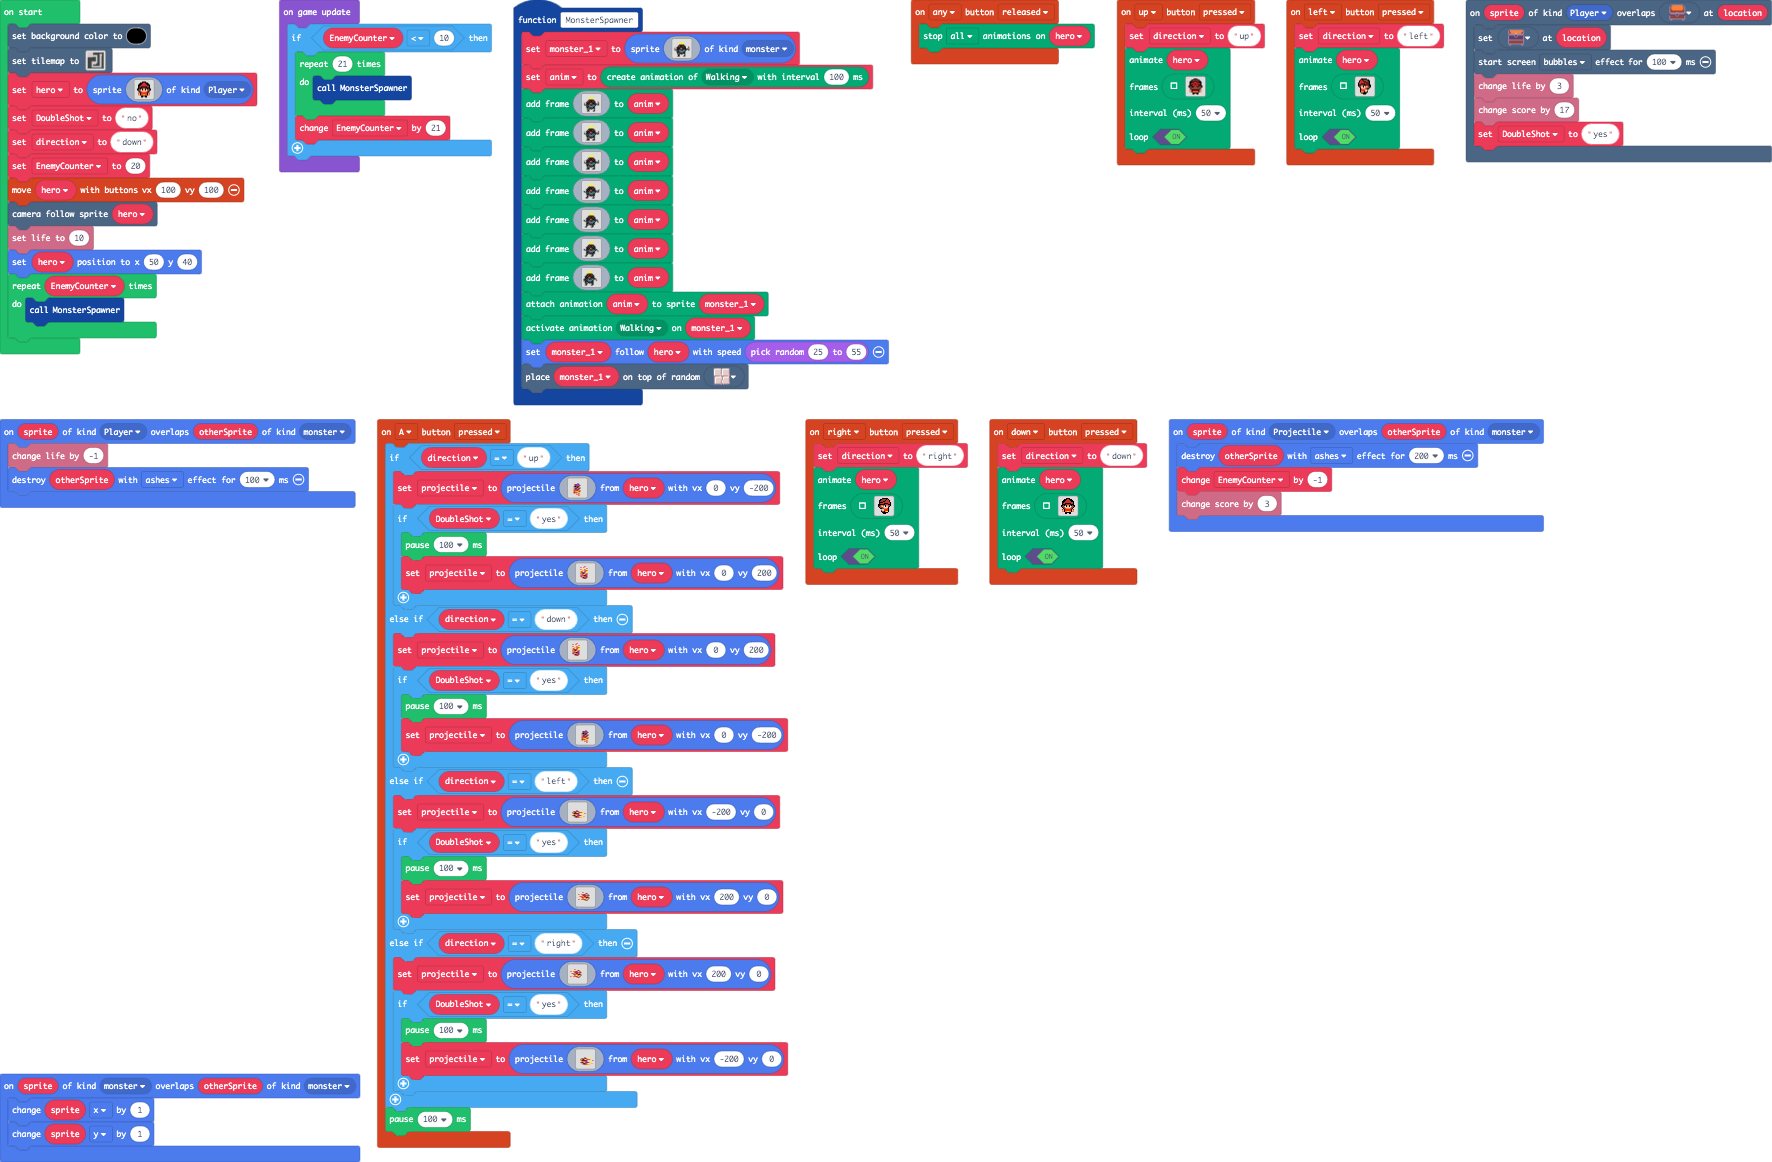
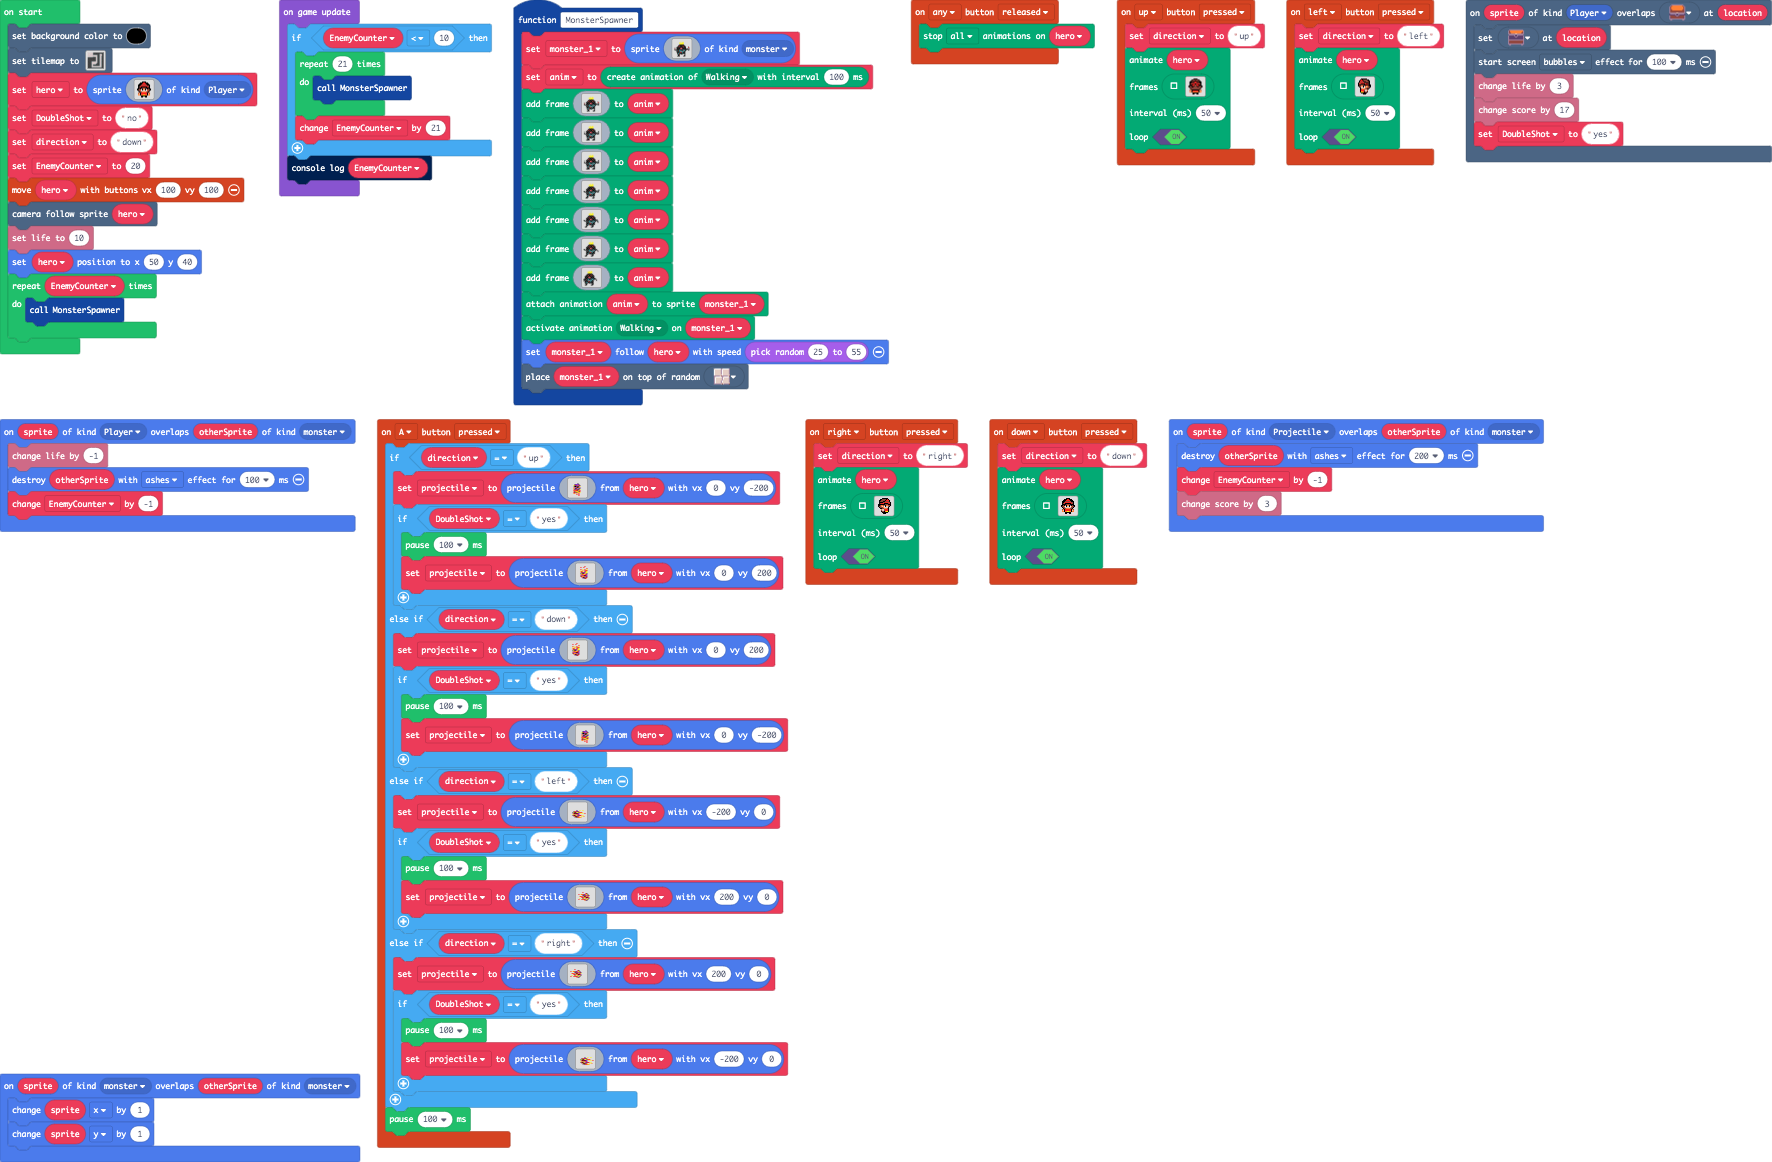
bug fix for monster spawner

Changed region(s): [[0.0, 0.4028, 0.2173, 0.4647], [0.1552, 0.1239, 0.2483, 0.1859]]

diff --git a/main.ts b/main.ts
@@ -663,6 +663,7 @@ scene.onOverlapTile(SpriteKind.Player, sprites.dungeon.chestClosed, function (sp
 sprites.onOverlap(SpriteKind.Player, SpriteKind.monster, function (sprite, otherSprite) {
     info.changeLifeBy(-1)
     otherSprite.destroy(effects.ashes, 100)
+    EnemyCounter += -1
 })
 controller.up.onEvent(ControllerButtonEvent.Pressed, function () {
     direction = "up"
@@ -832,4 +833,5 @@ game.onUpdate(function () {
         }
         EnemyCounter += 21
     }
+    console.log(EnemyCounter)
 })
